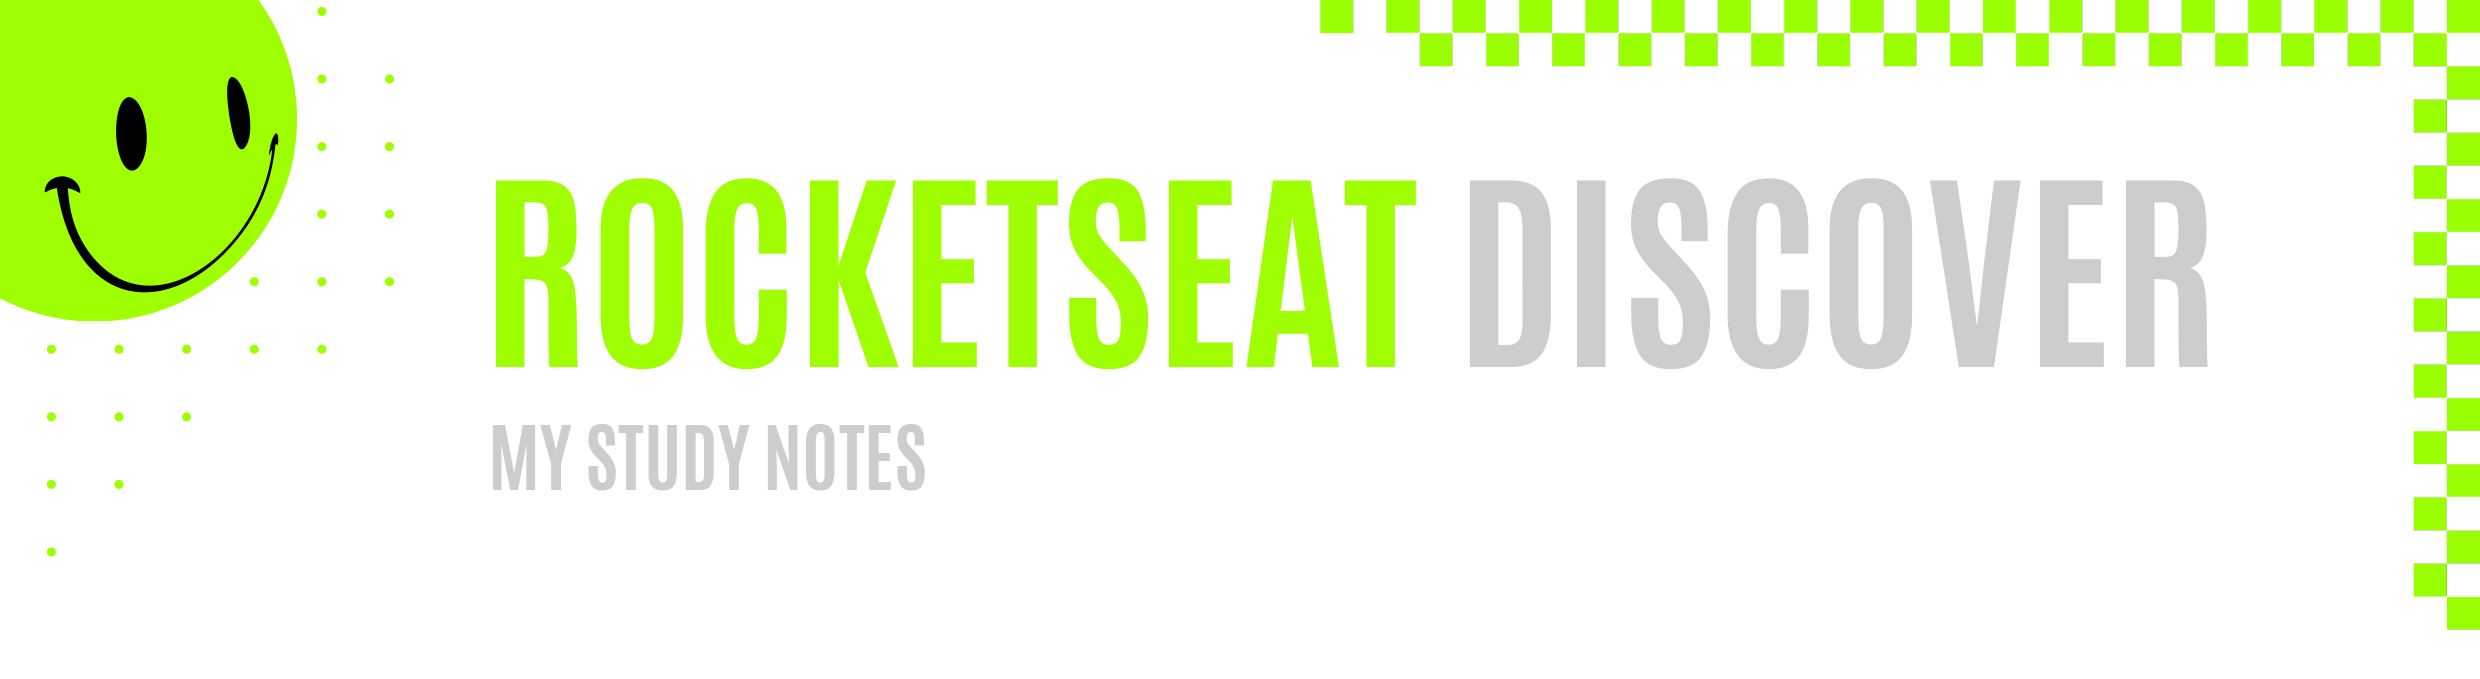
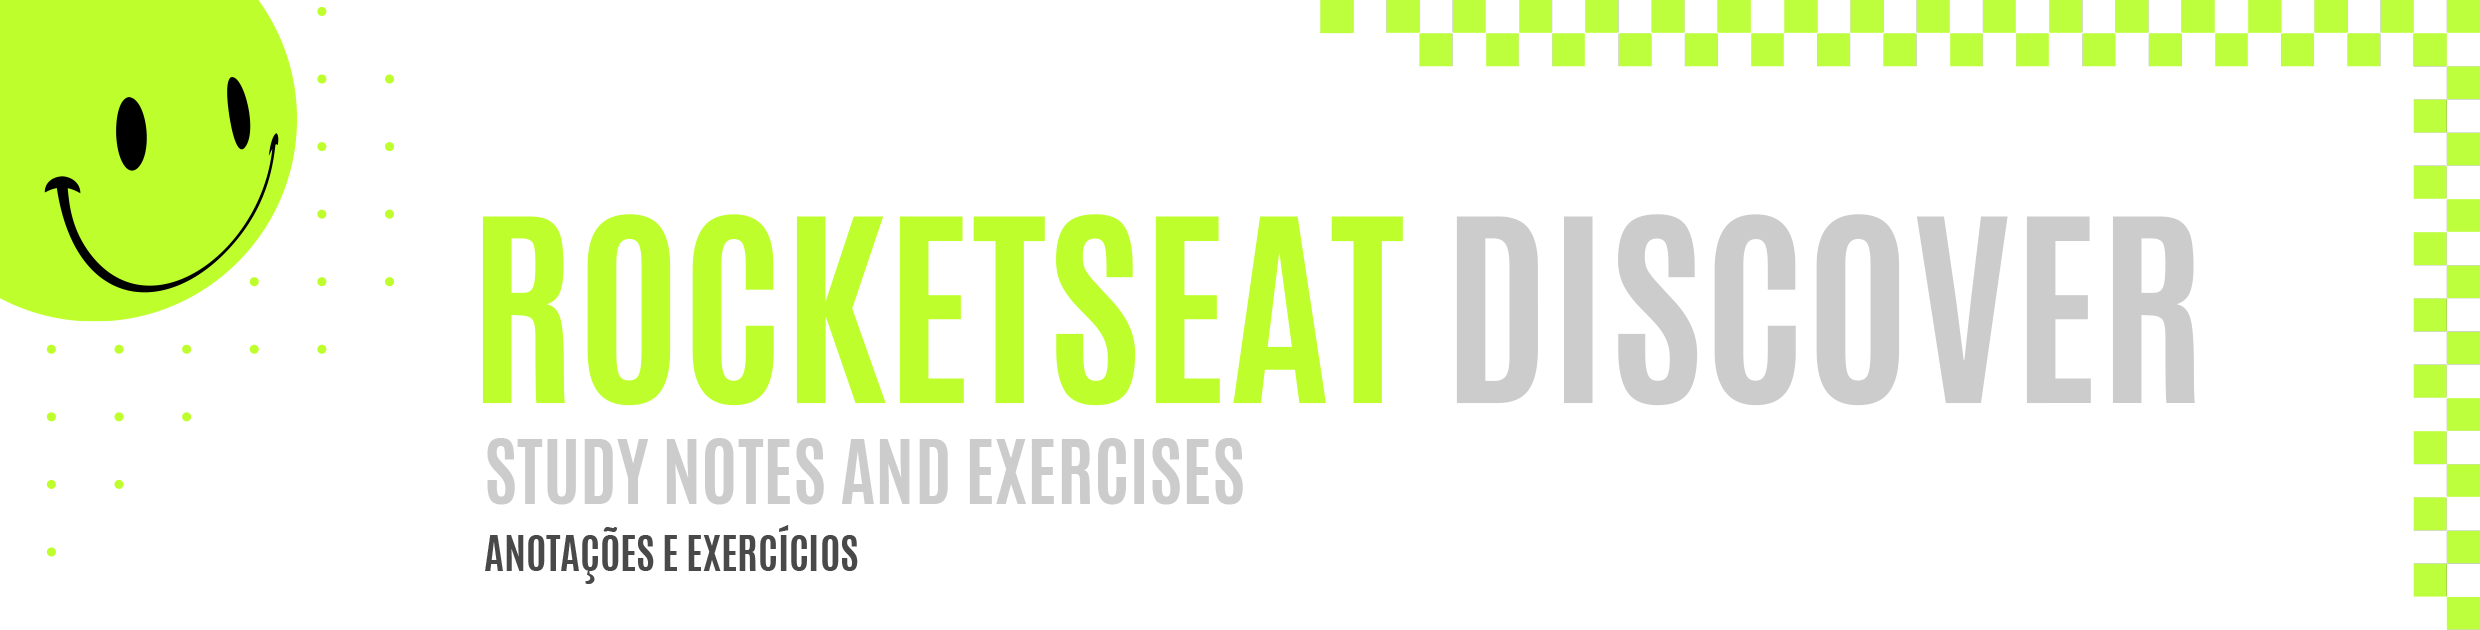
📄 docs: new README document

diff --git a/README.md b/README.md
@@ -1,9 +1,18 @@
 ![A pretty README header](assets/Readme-Header.png)
 <br />
 <br />
-![What is this about?](assets/Readme-What-is-this.png)
 
-Rocketseat Discover is a course that guides us through development, covering back-end and front-end, for those who are stepping into technology. It explains the very basics, getting in touch with HTML, CSS, JavaScript and other technologies over time.
+![Course](./assets/Readme-Mockup.png)
+
+<br />
+<br />
+
+![What is this about?](assets/Readme-What-is-this.png) ![Do que se trata?](./assets/Readme-Do-que-se-trata.png/)
+
+Rocketseat Discover is a course that guides us through development, covering back-end and front-end, and even data, for those who are stepping into technology. It explains the very basics, getting in touch with HTML, CSS, JavaScript and other technologies over time.
+
+##### O curso Discover, da Rocketseat, é um guia introdutório ao mundo do desenvolvimento, que percorre tanto o front-end, quanto o back-end, e pincela até mesmo a área de dados, para aqueles que estão dando seus primeiros passos. O curso explica o básico, em contato com HTML, CSS, JavaScript e outras tecnologias.
+
 <br />
 <br />
 <br />
@@ -12,6 +21,27 @@ Rocketseat Discover is a course that guides us through development, covering bac
 ![Progress](assets/Readme-Progress.png)
 
 ![Progress bar](assets/Readme-ProgressBar.png)
+<br />
+<br />
+<br />
+
+![What I have learned](./assets/Readme-What-I-have-learned.png) ![O que aprendi](./assets/Readme-O-que-aprendi.png)
+
+|  Topic       |  Content        |  Done        |
+| ------------------ | ------------------ | :--------------------------------------------: |
+|  Intro      | HTTP, URLs, TCP, IP, Proxy, browsers, MAC Adress, DNS, hardware, software | ![Done](./assets/Readme-Done.png) |
+|  HTML      | SEO, tables, meta, social meta, favicon | ![Done](./assets/Readme-Done.png) |
+|  CSS  | Box model, shorthands, vendor prefixes, functions, root | ![Done](./assets/Readme-Done.png) |
+|  JavaScript  | DOM, callback, Promises, Async-Await | ![Done](./assets/Readme-Done.png) |
+|  NodeJs  | Packages, scripts, global dependency, timers, event modules | ![Done](./assets/Readme-Done.png) |
+|  EJS  | Reuse code, pages | ![Done](./assets/Readme-Done.png) |
+|  SQL  | Data, tables, SELECT, operators | ![Done](./assets/Readme-Done.png) |
+|  Git  | CheatSheet, git log, hash values, HEAD | ![Done](./assets/Readme-Done.png) |
+|  API  | Back-end, front-end |  |
+|  ReactJs  | JSX, components, Key Prop, Hooks  | |
+|  TypeScript  | Functions, Type Assertions  |  |
+
+
 <br />
 <br />
 <br />
